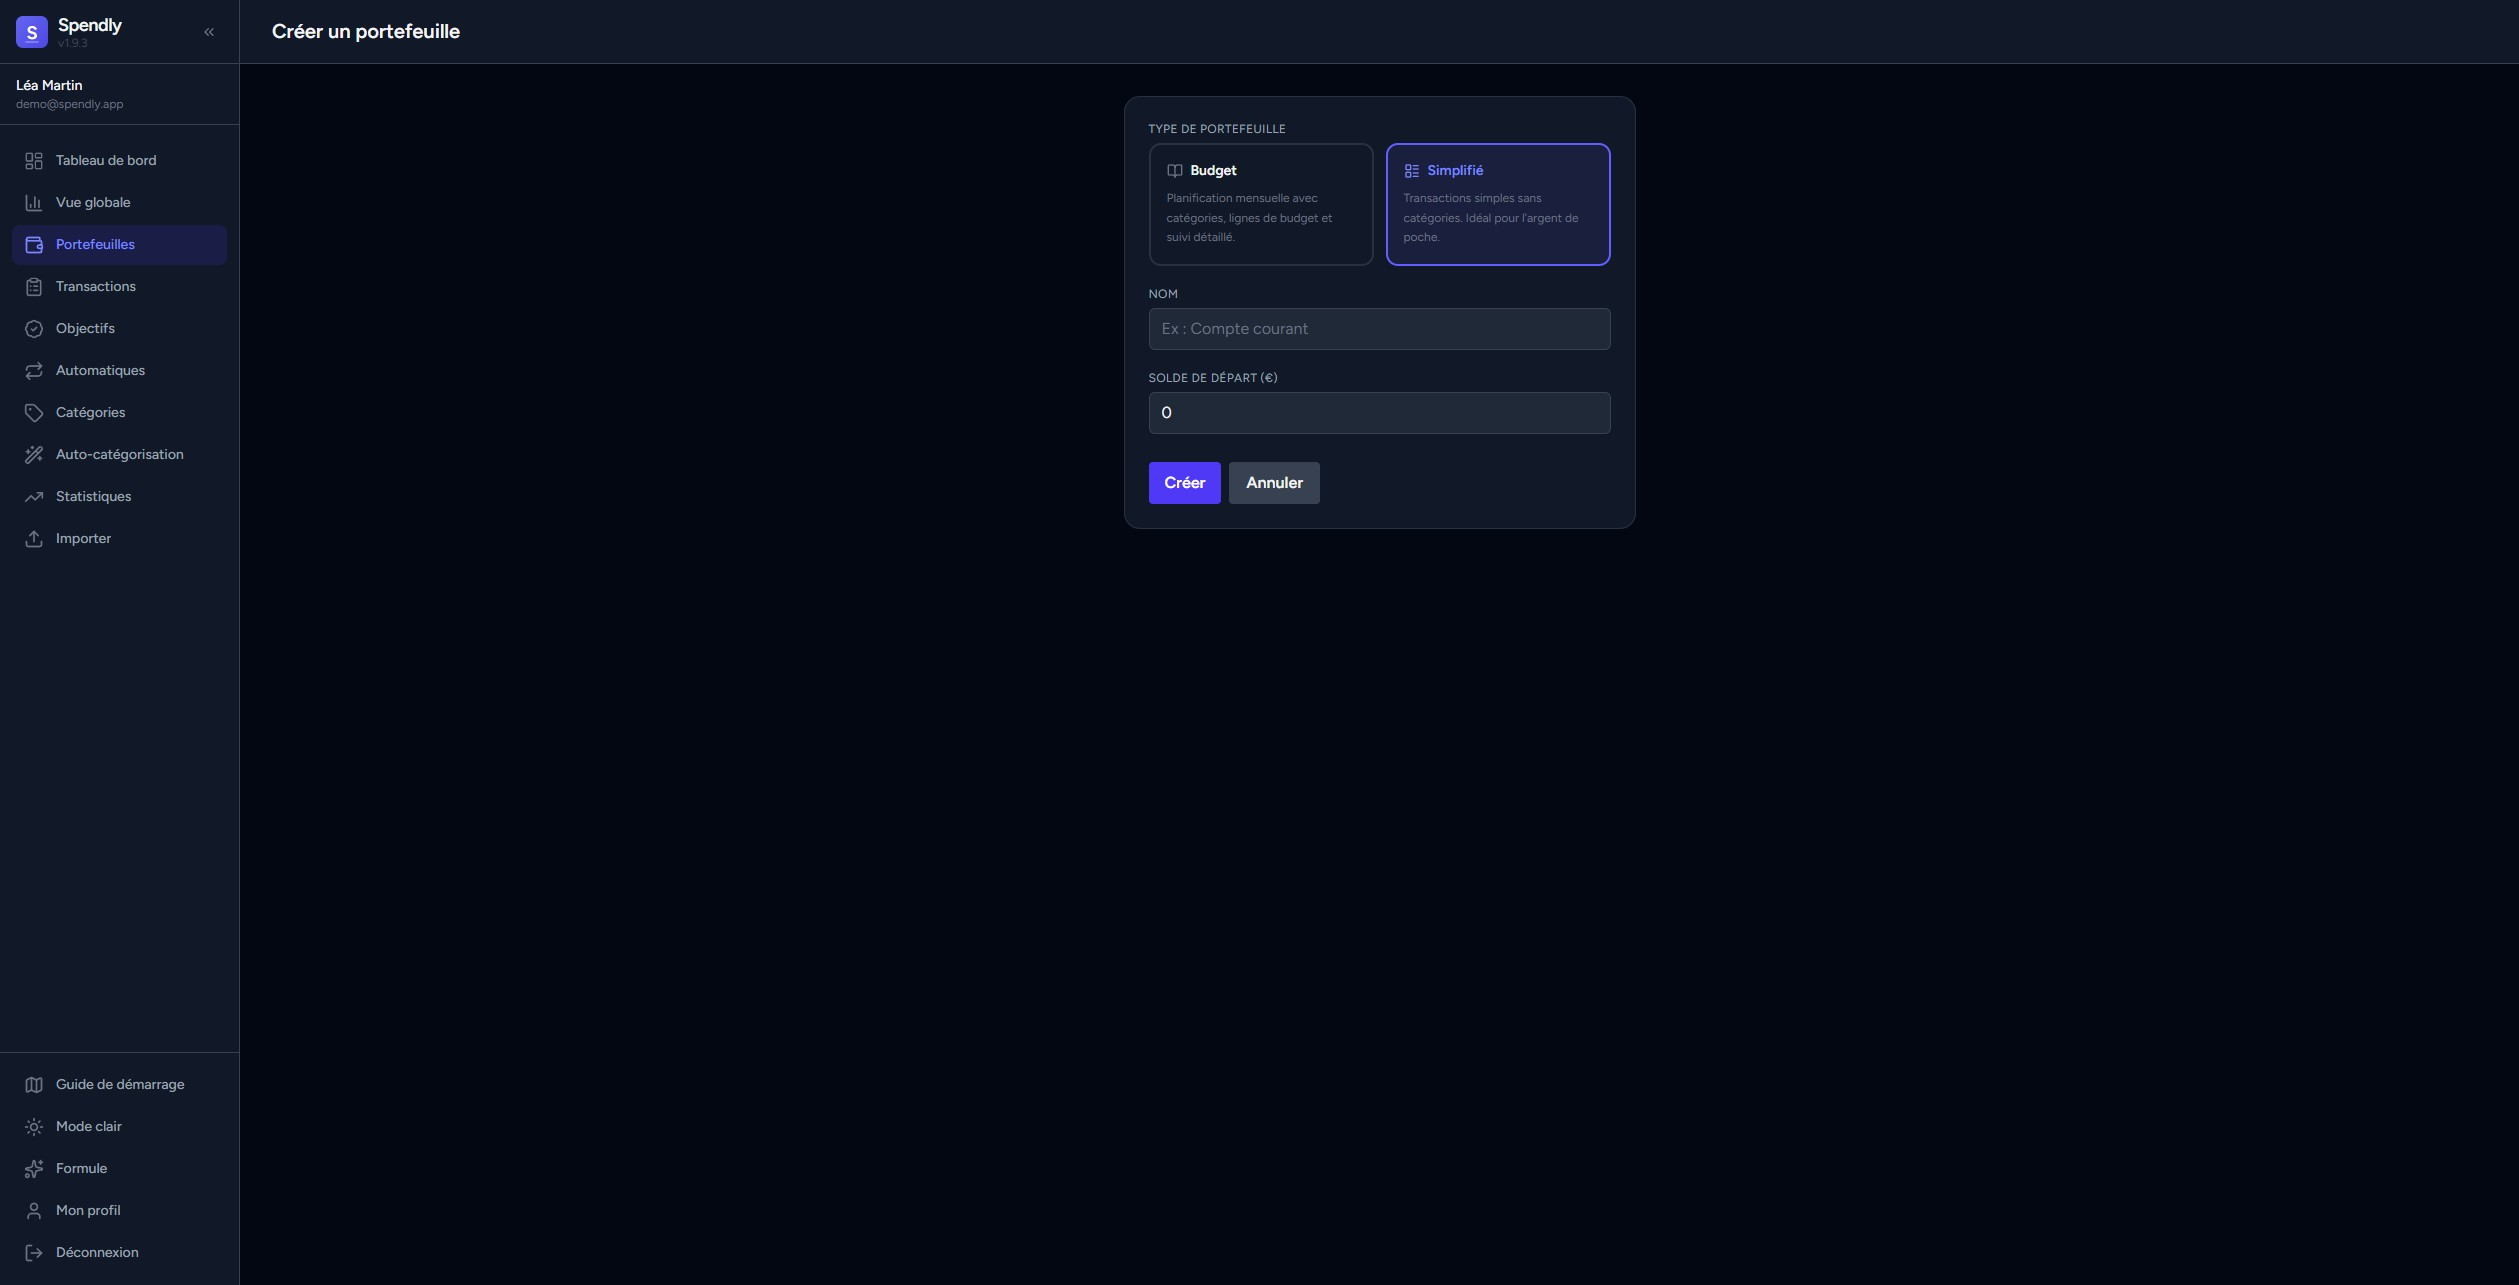
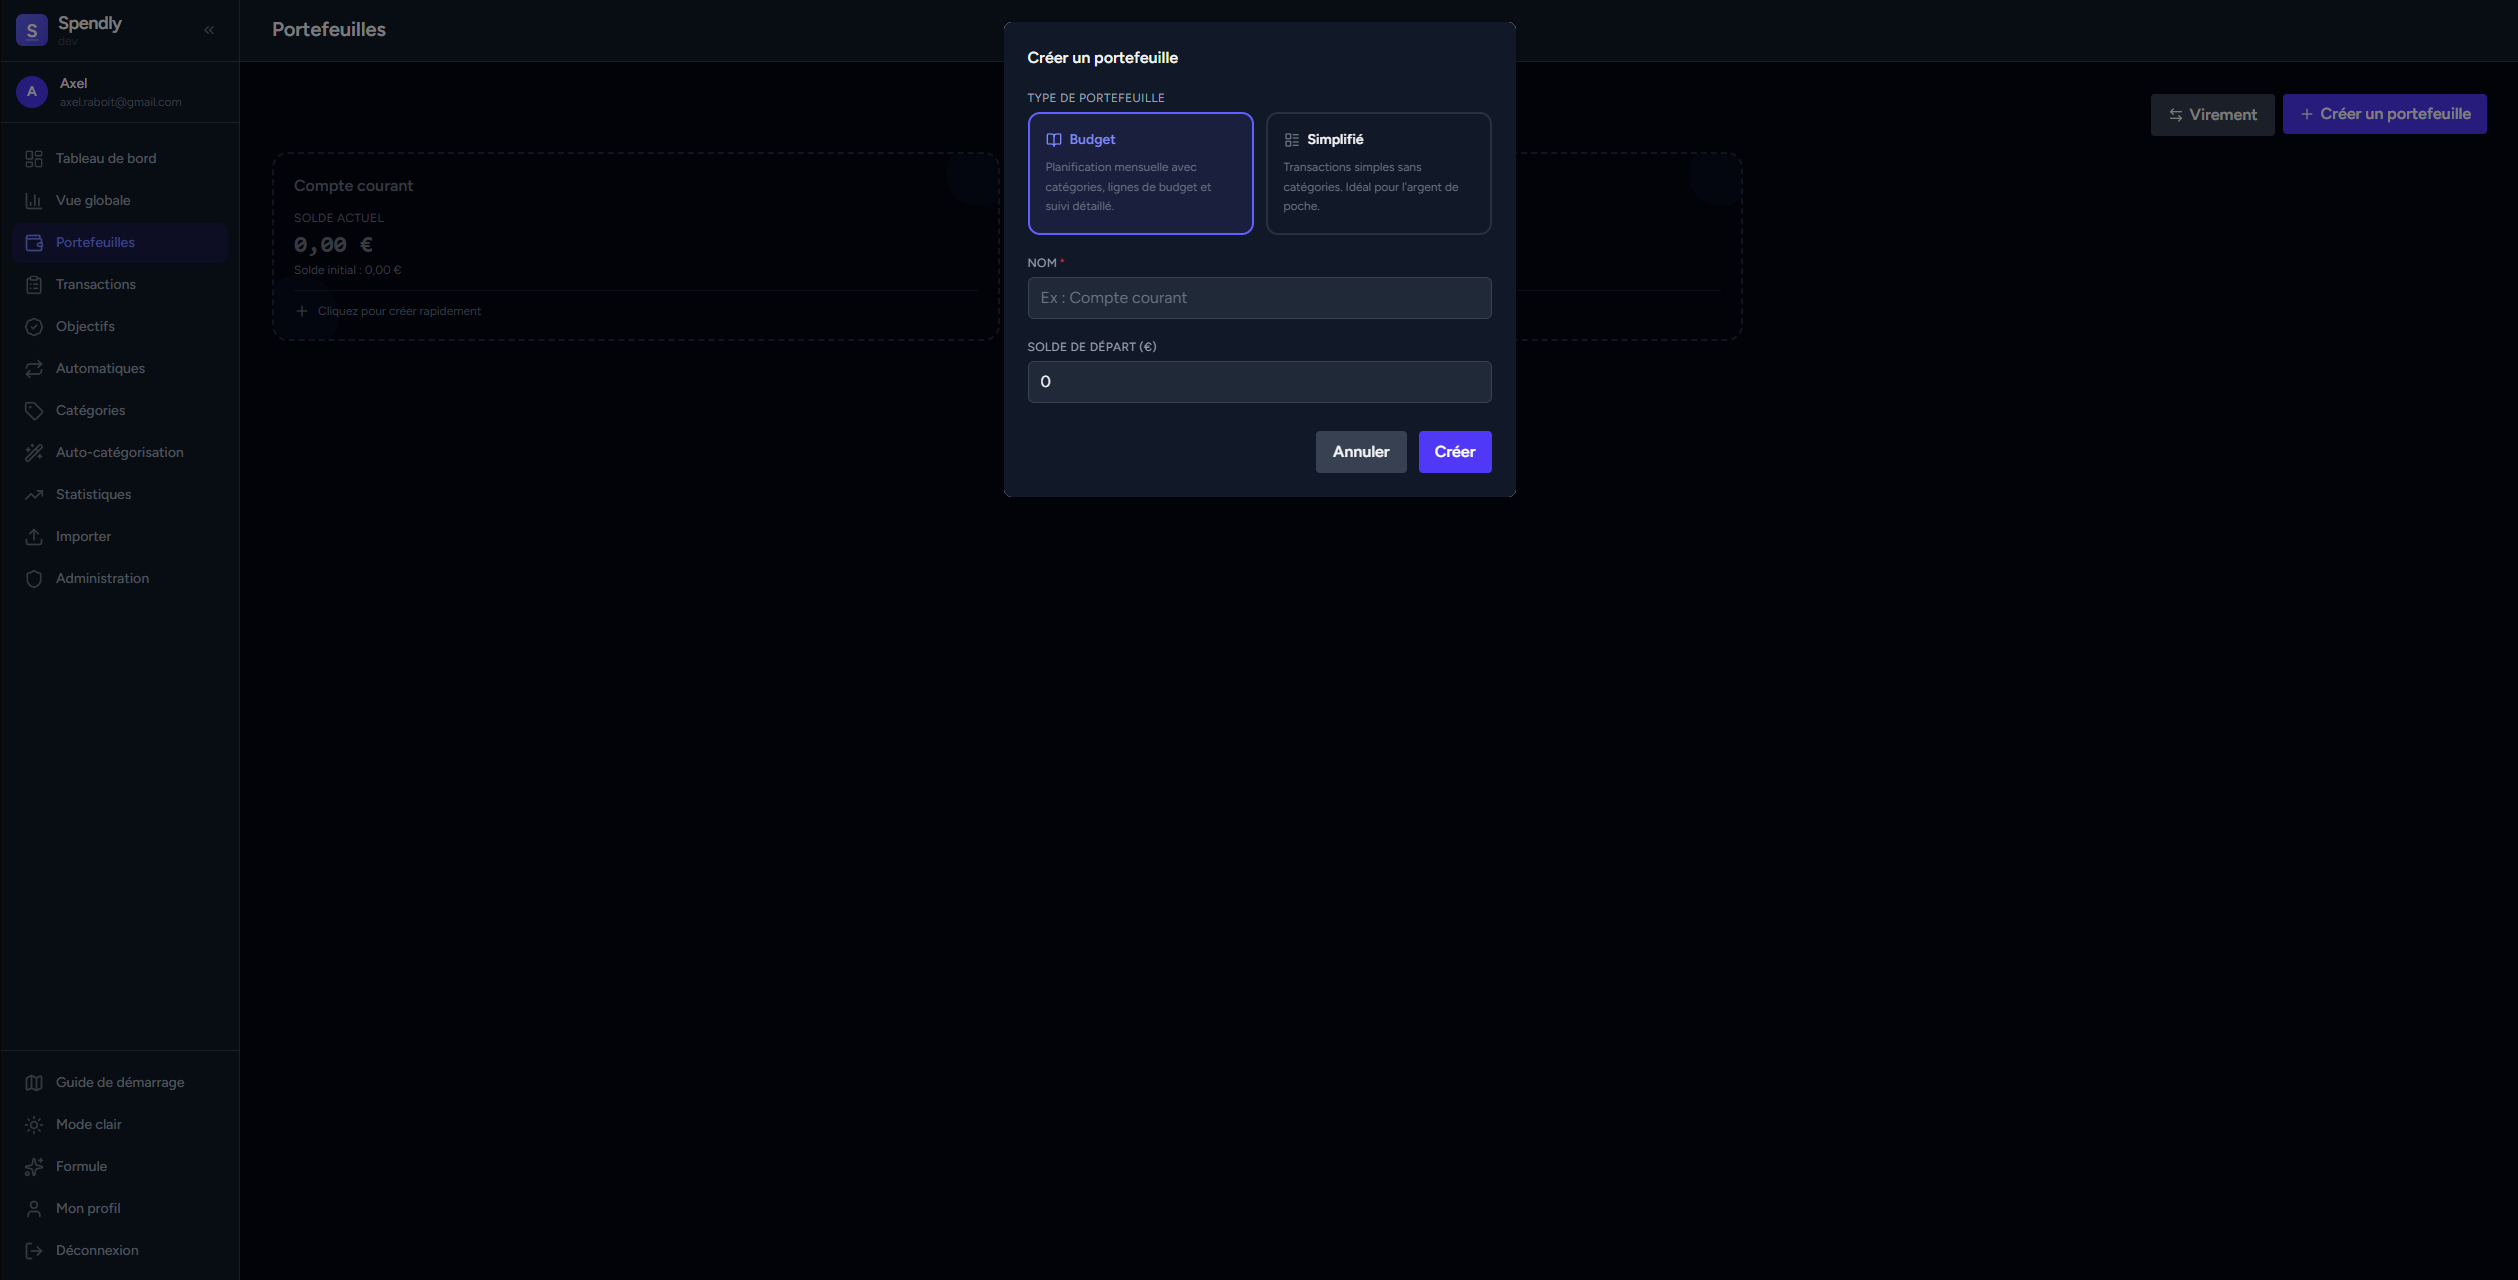
feat: use modal to create wallet instead of dedicated page

diff --git a/resources/js/Pages/Wallets/Index.vue b/resources/js/Pages/Wallets/Index.vue
@@ -1,10 +1,11 @@
 <script setup>
-import { ArrowLeftRight, GripVertical, ChevronRight, Users, FlaskConical, Plus, LayoutDashboard, Pencil, Trash2 } from 'lucide-vue-next';
+import { ArrowLeftRight, GripVertical, ChevronRight, Users, FlaskConical, Plus, LayoutDashboard, Pencil, Trash2, BookOpen, LayoutList } from 'lucide-vue-next';
 import AppTooltip from '@/components/ui/AppTooltip.vue';
 import AuthenticatedLayout from '@/Layouts/AuthenticatedLayout.vue';
 import QuickCreateCard from '@/components/wallet/QuickCreateCard.vue';
 import TransferModal from '@/components/wallet/TransferModal.vue';
 import WalletMembersModal from '@/components/wallet/WalletMembersModal.vue';
+import Modal from '@/components/ui/Modal.vue';
 import { Head, Link, router, useForm } from '@inertiajs/vue3';
 import { ref, computed, watch, onMounted } from 'vue';
 import { useConfirmDelete } from '@/composables/ui/useConfirmDelete';
@@ -12,6 +13,7 @@ import { useDragDrop } from '@/composables/ui/useDragDrop';
 import { useCurrency } from '@/composables/core/useCurrency';
 import { usePlanLimits } from '@/composables/ui/usePlanLimits';
 import { useTour } from '@/composables/ui/useTour';
+import { useWalletForm } from '@/composables/forms/useWalletForm';
 import { useI18n } from 'vue-i18n';
 import { WalletMode } from '@/enums/WalletMode';
 import { WalletRole } from '@/enums/WalletRole';
@@ -21,7 +23,7 @@ const props = defineProps({
 });
 
 const { t } = useI18n();
-const { isPro, canCreate, limit } = usePlanLimits();
+const { isPro, canCreate } = usePlanLimits();
 const { initForPage, tourActive } = useTour();
 const showProFeatures = computed(() => isPro.value || tourActive.value);
 onMounted(() => initForPage('wallets.index'));
@@ -30,7 +32,7 @@ function deleteDemoWallet() {
     router.delete(route('tour.cleanup'));
 }
 const { isOpen, message, confirmDelete, onConfirm, onCancel } = useConfirmDelete(t('wallets.confirmDelete'));
-const { fmt } = useCurrency();
+const { fmt, symbol } = useCurrency();
 const showTransfer = ref(false);
 const showMembers = ref(false);
 const membersWallet = ref(null);
@@ -72,6 +74,20 @@ function quickCreate(name) {
     quickForm.name = name;
     quickForm.post('/wallets');
 }
+
+// ── Create wallet modal ───────────────────────────────────────────────────
+const showCreateWallet = ref(false);
+const { form: createForm, submit: submitCreate } = useWalletForm();
+
+const walletModes = [
+    { key: WalletMode.Budget, icon: BookOpen, title: () => t('wallets.modeBudgetTitle'), description: () => t('wallets.modeBudgetDesc') },
+    { key: WalletMode.Simple, icon: LayoutList, title: () => t('wallets.modeSimpleTitle'), description: () => t('wallets.modeSimpleDesc') },
+];
+
+function openCreateModal() {
+    createForm.reset();
+    showCreateWallet.value = true;
+}
 </script>
 
 <template>
@@ -89,13 +105,10 @@ function quickCreate(name) {
                     {{ t('transfers.new') }}
                 </AppButton>
                 <div v-if="canCreateWallet || showProFeatures" data-tour="create-wallet">
-                    <Link
-                        href="/wallets/create"
-                        class="bg-indigo-600 hover:bg-indigo-700 text-white font-bold py-2 px-4 rounded transition inline-flex items-center gap-2"
-                    >
-                        <Plus class="w-4 h-4" />
+                    <AppButton v-on:click="openCreateModal">
+                        <Plus class="w-4 h-4 mr-1.5" />
                         {{ t('wallets.createBtn') }}
-                    </Link>
+                    </AppButton>
                 </div>
             </div>
 
@@ -227,5 +240,63 @@ function quickCreate(name) {
             :is-pro="isPro"
             v-on:close="showMembers = false"
         />
+
+        <Modal :show="showCreateWallet" max-width="lg" v-on:close="showCreateWallet = false">
+            <div class="bg-surface p-6 space-y-5">
+                <h2 class="text-base font-semibold text-primary">{{ t('wallets.createTitle') }}</h2>
+
+                <form class="space-y-5" v-on:submit.prevent="submitCreate">
+                    <div class="space-y-2">
+                        <InputLabel :value="t('wallets.fieldMode')" />
+                        <div class="grid grid-cols-2 gap-3">
+                            <button
+                                v-for="mode in walletModes"
+                                :key="mode.key"
+                                type="button"
+                                class="flex flex-col items-start gap-2 rounded-xl border-2 p-4 text-left transition-all"
+                                :class="createForm.mode === mode.key
+                                    ? 'border-indigo-500 bg-indigo-500/10'
+                                    : 'border-line/60 bg-surface hover:border-indigo-500/40'"
+                                v-on:click="createForm.mode = mode.key"
+                            >
+                                <div class="flex items-center gap-2">
+                                    <component :is="mode.icon" class="w-4 h-4" :class="createForm.mode === mode.key ? 'text-indigo-400' : 'text-muted'" />
+                                    <span class="text-sm font-semibold" :class="createForm.mode === mode.key ? 'text-indigo-400' : 'text-primary'">{{ mode.title() }}</span>
+                                </div>
+                                <p class="text-xs text-muted leading-relaxed">{{ mode.description() }}</p>
+                            </button>
+                        </div>
+                        <InputError :message="createForm.errors.mode" />
+                    </div>
+
+                    <div>
+                        <InputLabel :value="t('wallets.fieldName')" required />
+                        <TextInput v-model="createForm.name" type="text" :placeholder="t('wallets.placeholder')" required />
+                        <InputError :message="createForm.errors.name" />
+                    </div>
+
+                    <div>
+                        <InputLabel :value="t('wallets.fieldBalance', { symbol })" />
+                        <TextInput
+                            v-model="createForm.start_balance"
+                            type="number"
+                            step="0.01"
+                            min="0"
+                            placeholder="0.00"
+                        />
+                        <InputError :message="createForm.errors.start_balance" />
+                    </div>
+
+                    <div class="flex justify-end gap-3 pt-2">
+                        <AppButton type="button" variant="secondary" v-on:click="showCreateWallet = false">
+                            {{ t('common.cancel') }}
+                        </AppButton>
+                        <AppButton type="submit" :disabled="createForm.processing">
+                            {{ t('common.create') }}
+                        </AppButton>
+                    </div>
+                </form>
+            </div>
+        </Modal>
     </AuthenticatedLayout>
 </template>
